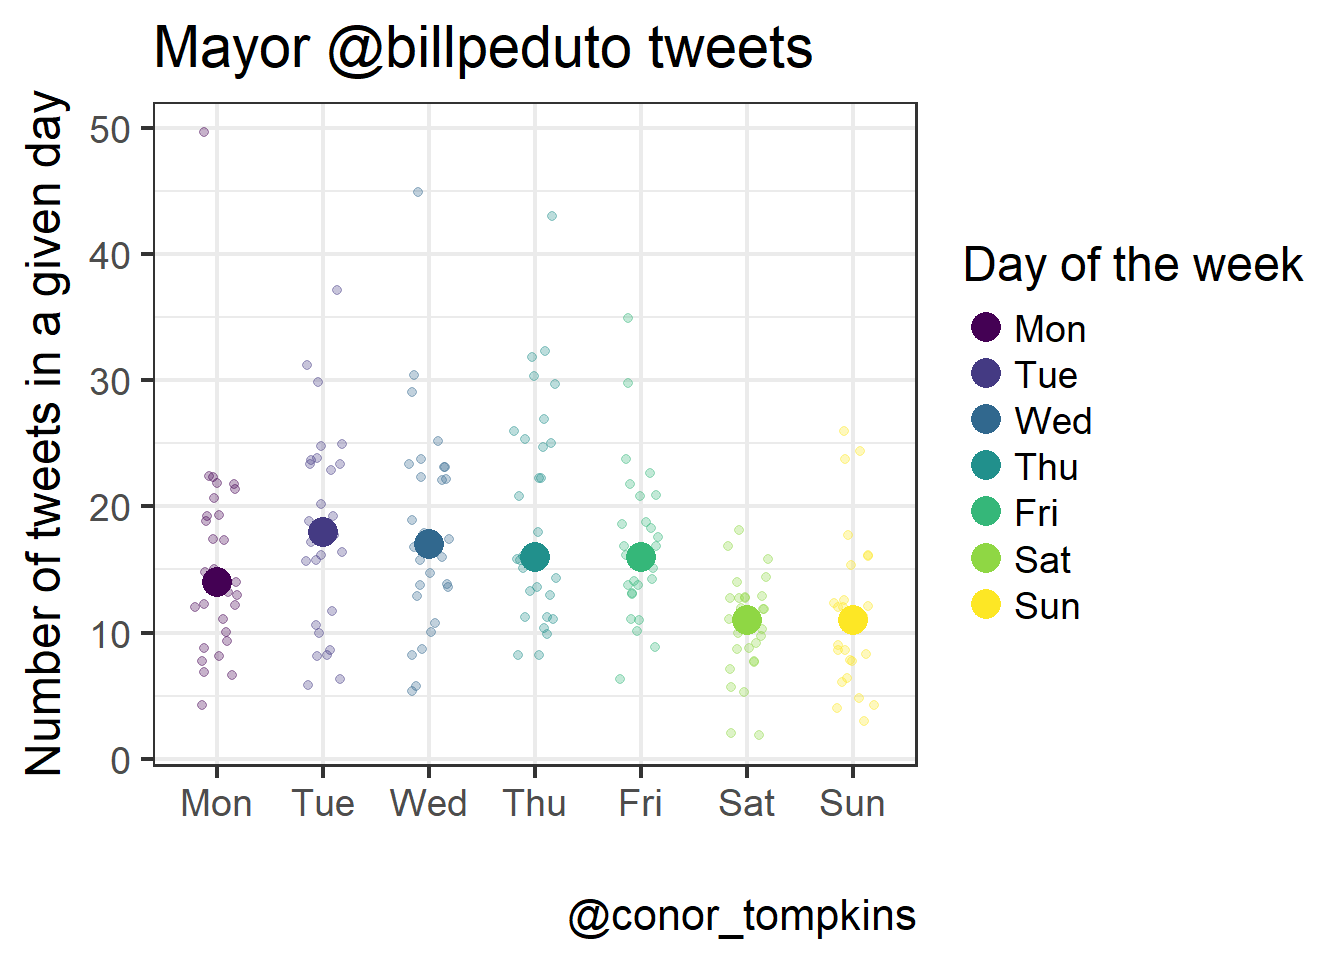
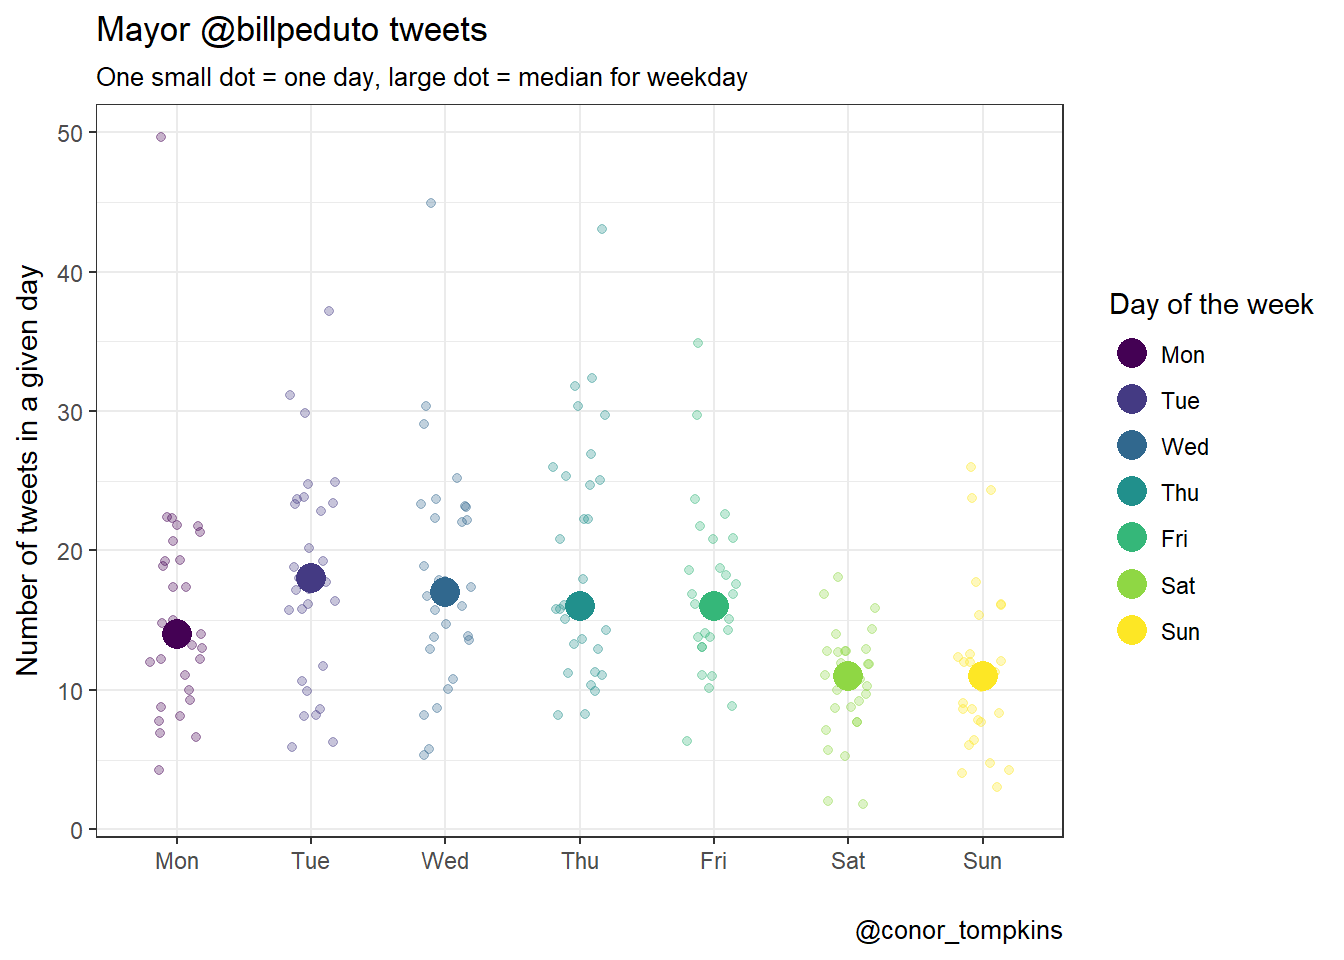
pushed html files

diff --git a/content/post/2018-03-04-mayor-billpeduto-tweets.html b/content/post/2018-03-04-mayor-billpeduto-tweets.html
@@ -178,11 +178,12 @@ FALSE
   geom_point(aes(wday, median), size = 5) +
   scale_color_viridis(name = &quot;Day of the week&quot;, discrete = TRUE) +
   labs(title = title,
+       subtitle = &quot;One small dot = one day, large dot = median for weekday&quot;,
        x = &quot;&quot;,
        y = &quot;Number of tweets in a given day&quot;,
        caption = caption) +
-  theme_bw(base_size = 18)</code></pre>
-<p><img src="/post/2018-03-04-mayor-billpeduto-tweets_files/figure-html/Day%20of%20the%20week-1.png" width="672" /> The Mayor does most of his tweeting around lunchtime, though he is known to tweet in the late evening as well.</p>
+  theme_bw(base_family = 18)</code></pre>
+<p><img src="/post/2018-03-04-mayor-billpeduto-tweets_files/figure-html/Day%20of%20the%20week-1.png" width="672" /> The Mayor does most of his tweeting around lunchtime and in the late evening.</p>
 <pre class="r"><code>df_bill %&gt;% 
   count(hour) %&gt;% 
   ggplot(aes(hour, y = 1, fill = n)) +
@@ -202,7 +203,7 @@ FALSE
         axis.ticks.y = element_blank(),
         legend.position = &quot;bottom&quot;,
         legend.text = element_text(size = 7))</code></pre>
-<p><img src="/post/2018-03-04-mayor-billpeduto-tweets_files/figure-html/hour-1.png" width="672" /> This view combines the Day of the week and hour variables, and confirms what we observed when looking at the variables independently.</p>
+<p><img src="/post/2018-03-04-mayor-billpeduto-tweets_files/figure-html/hour-1.png" width="672" /> This view combines the day of the week and hour variables, and confirms what we observed when looking at the variables independently.</p>
 <pre class="r"><code>df_bill %&gt;% 
   mutate(wday = factor(wday, levels = rev(levels(df_bill$wday)))) %&gt;% 
   count(wday, hour) %&gt;% 
@@ -265,7 +266,7 @@ df_bill_tweet_types_month_year %&gt;%
 <p>The R package Tidytext makes it very easy to parse text data and pull insights from it. It interfaces very easily with ggraph, which creates network graphs.</p>
 <pre class="r"><code>set.seed(1234)
 df_bill &lt;- read_csv(&quot;https://raw.githubusercontent.com/conorotompkins/pittsburgh_twitter/master/data/bill_peduto_tweets.tweets.csv&quot;)</code></pre>
-<p>By separating the Mayor’s tweets into bigrams (two-word chunks), we can identify which words are used together. This code cuts the tweets into bigrams and counts their occurences.</p>
+<p>By separating the Mayor’s tweets into bigrams (two-word chunks), we can identify which words are used together. This code cuts the tweets into bigrams and counts their occurences. I exclude retweets and quotes from this analysis.</p>
 <pre class="r"><code>count_twitter_bigrams &lt;- function(dataset, custom_stopwords) {
   replace_reg &lt;- &quot;https://t.co/[A-Za-z\\d]+|http://[A-Za-z\\d]+|&amp;amp;|&amp;lt;|&amp;gt;|RT|https|&#39;s&quot;
   
@@ -372,7 +373,7 @@ cities
 </tr>
 </tbody>
 </table>
-<p>This network graph shows which words the Mayor uses together frequently. “public” + “safety”, and “affordable” + “housing” are the main standouts. I think this plot pretty accurately captures the policy issues the Mayor focuses on.</p>
+<p>This network graph shows which words the Mayor uses together frequently. “public” + “safety”, and “affordable” + “housing” are the main standouts. I think this plot pretty accurately captures the topics the Mayor tweets about.</p>
 <pre class="r"><code>visualize_bigrams &lt;- function(bigrams, minimum, text_size = 3, title = NULL, subtitle = NULL, caption = NULL) {
   set.seed(2016)
   a &lt;- grid::arrow(type = &quot;closed&quot;, 
@@ -424,7 +425,8 @@ visualize_bigrams(tweets_bill,
 bill_stopwords &lt;- c(&quot;t.co&quot;, &quot;https&quot;, &quot;amp&quot;)
 
 bill_words &lt;- word_correlations(df_bill, minimum = 10, custom_stopwords = bill_stopwords)</code></pre>
-<p>This plot shows which words are correlated highly with each other. Some words are “stemmed” (shortened/modified), to capture very similar words, like “business” and “businesses”. “amazon” and “hq2” are used together overwhelmingly. The “pwsa” + “water” + “decad” combination indicate the <a href="http://wesa.fm/post/struggling-provide-safe-clean-drinking-water-pennsylvania#stream/0">ongoing water quality problems</a>, and plans for reinvestment in the infrastructure.</p>
+<p>This plot shows which words are correlated highly with each other. Some words are “stemmed” (shortened and/or modified), to capture very similar words. For example, “business” and “businesses” could be stemmed to “busine”.</p>
+<p>“amazon” and “hq2” are used together overwhelmingly. The “pwsa” + “water” + “decad” combination indicate the <a href="http://wesa.fm/post/struggling-provide-safe-clean-drinking-water-pennsylvania#stream/0">ongoing water quality problems</a>, and the plans to reinvest in the infrastructure. This plot shows how some of the policy issues the Mayor focuses on are connected.</p>
 <pre class="r"><code>visualize_word_correlations &lt;- function(dataframe, title, subtitle, caption){
   dataframe %&gt;% 
   filter(correlation &gt; .3) %&gt;%
